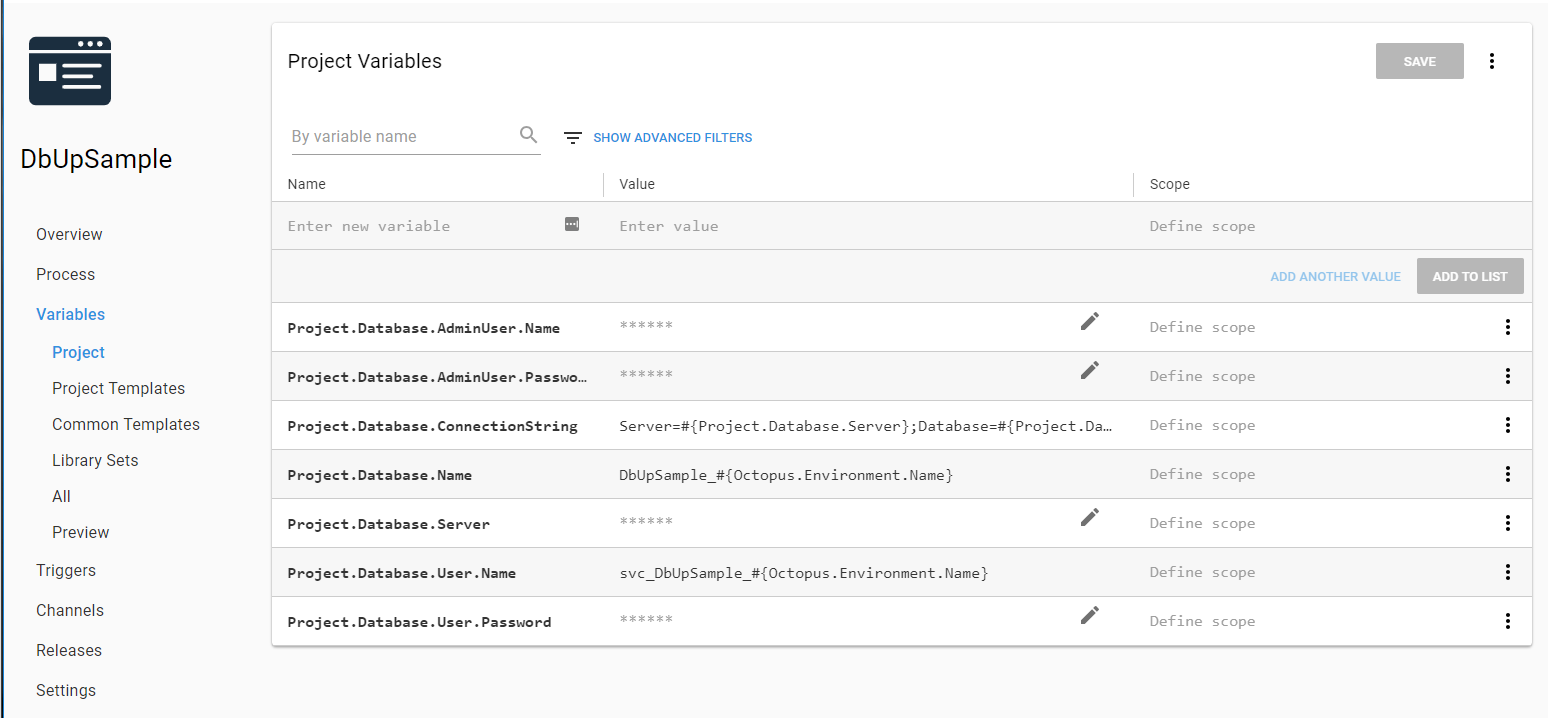
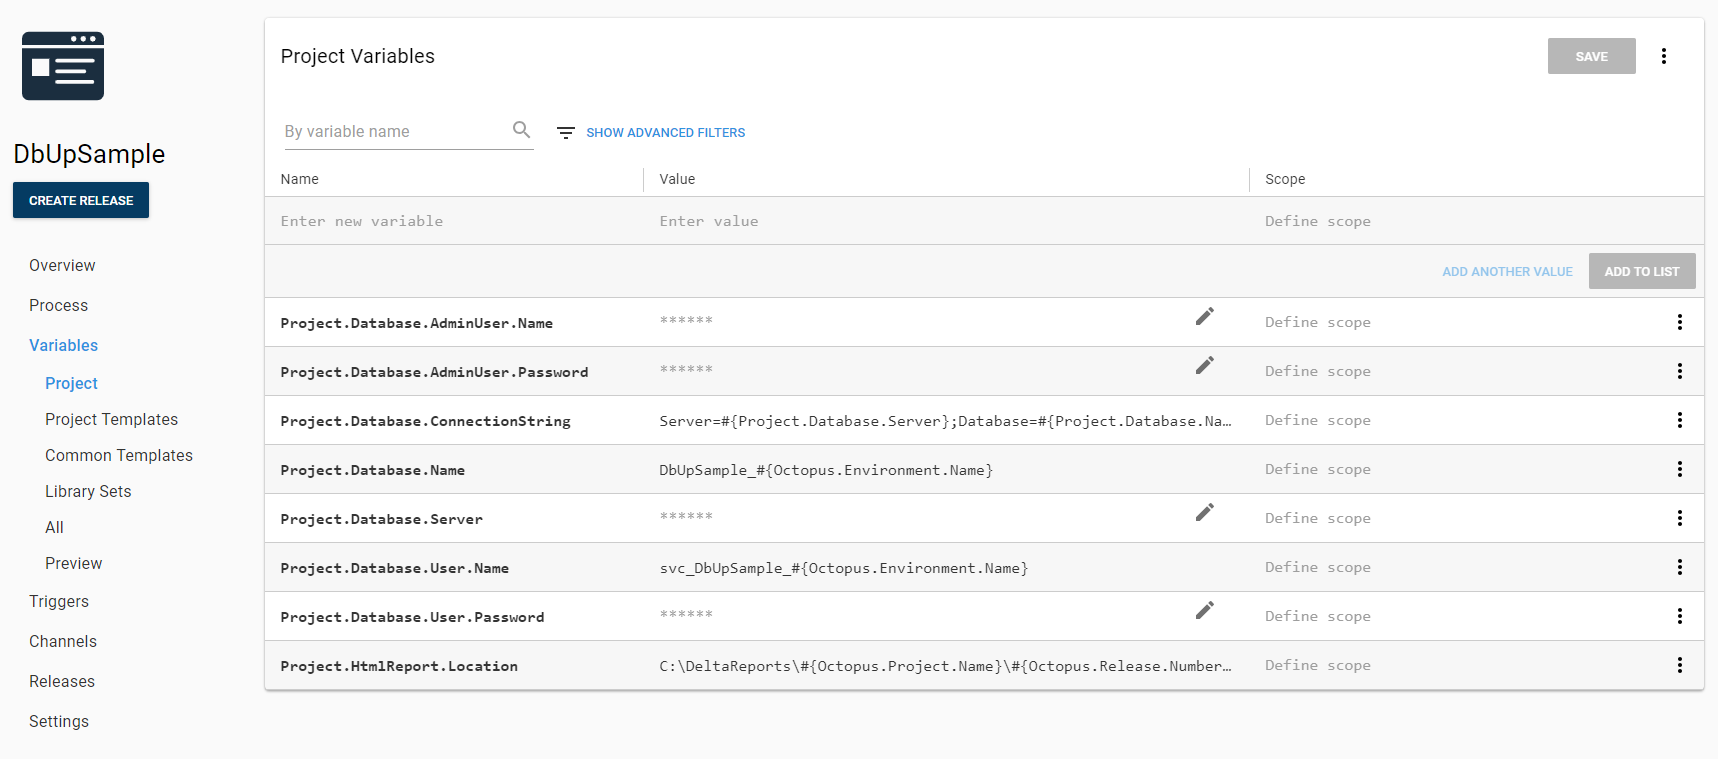
Wrapping up the process, starting on the cloud region

diff --git a/blog/2019-02/dbup-database-deployments/index.md b/blog/2019-02/dbup-database-deployments/index.md
@@ -334,9 +334,9 @@ You could move around the older files into a new folder and add a new command li
 
 I'm going to assume you know how to build a .NET Core application and package it up.  If you do not, here is the quick TL;DR;  
 
-Run the `dotnet publish` command on the project.  Set the output path.
-Run `octo.exe pack` to package up the output path (or use the Octopus Deploy build server plug-in).
-Push the package to Octopus Deploy using `octo.exe push` command (or use the Octopus Deploy build server plug-in).
+- Run the `dotnet publish` command on the project.  Set the output path.
+- Run `octo.exe pack` to package up the output path (or use the Octopus Deploy build server plug-in).
+- Push the package to Octopus Deploy using `octo.exe push` command (or use the Octopus Deploy build server plug-in).
 
 To make your life easier for this demo I have included version 1.0.0.0 of the sample application as a zip file in GitHub repo.  You can find that file in the root directory of the repo.  A quick upload and we now have a package ready to deploy.
 
@@ -348,4 +348,103 @@ Before getting to the process, we need to define some variables.  Because this i
 
 ![](octopusdeploy-demovariables.png)
 
-To create the database and user I am using the community step templates I created for earlier blog posts.  You can download those step templates to your Octopus Deploy instance by going to the [library](https://library.octopus.com) Or, you can go to the step template library on your Octopus Deploy instance on your instance and adding them yourself.
+To create the database and user I am using the community step templates I created for earlier blog posts.  You can download those step templates to your Octopus Deploy instance by going to the [library](https://library.octopus.com) Or, you can go to the step template library on your Octopus Deploy instance and add them.
+
+Adding in the first step presents us with a decision.  Where to run the step.  Should it run on a target or on a worker?  For right now, I am going to run this on a worker in the `Database Worker Pool.` I picked the worker pool because I am using SQL Authentication.  If I was using integrated security with this process there is some additional setup to be done.  I will cover that later in the post.  For now, I want to go through the process.
+
+![](octopusdeploy-createdatabasestep.png)
+
+With this process we first want to put the scaffolding in place to create the database, the user and assign the user database.  
+
+![](octopusdeploy-initialdatabasedeployscaffolding.png)
+
+The next set of steps will deploy the database changes from DbUp.  If you recall [my previous Redgate articles](https://octopus.com/blog/automated-database-deployments-redgate-sql-change-automation-state-based) this was done via four steps.
+
+1) Download Package
+2) Run Redgate Create Database Release
+3) DBA Approve Deployment
+4) Run Redgate Deploy Database Release
+
+I have a couple of problems with that process.  Namely, the download package step is designed to extract the package and leave it on the tentacle.  By default it will leave it there forever.  Unless [retention policies](https://octopus.com/docs/administration/retention-policies) are configured.  My problem with that is after the deployment is complete there is no need to keep that extracted package on the tentacle.  The SQL Scripts have been run.  The scripts are now just taking up space.  In addition, that process has steps 2 and 4 referencing step 1.  It feels like a lot of extra work.
+
+If you are using Octopus Deploy 2018.8 or higher the good news is we can now reference packages from the `Run a Script` step.  The package will be downloaded and extracted.  Once the step is complete it will delete the extracted package.  Aside from cleaning up unneeded content, using package references in the `Run a Script` step lends itself nicely to running this process on workers.  Each step is isolated from one another.  
+
+The first step in the deployment piece of this process will generate the HTML report and upload it as an artifact to Octopus Deploy.  First things first, we need to add a package reference to the step.  First click on the `Add` button.  
+
+![](octopusdeploy-addpackagereference.png)
+
+When the modal window appears choose the package to extract.
+
+![](octopusdeploy-addpackagereferencemodal.png)
+
+Now we can add a script to handle the deployment.  Running .NET Core console apps is a little different than running .NET Framework Console apps.
+
+```PS
+# How you reference the extracted path
+$packagePath = $OctopusParameters["Octopus.Action.Package[DbUpSample].ExtractedPath"]
+$connectionString = $OctopusParameters["Project.Database.ConnectionString"]
+$reportPath = $OctopusParameters["Project.HtmlReport.Location"]
+
+$dllToRun = "$packagePath\DbUpSample.dll"
+$generatedReport = "$reportPath\UpgradeReport.html"
+
+if ((test-path $reportPath) -eq $false){
+	New-Item $reportPath -ItemType "directory"
+}
+
+# How you run this .NET core app
+dotnet $dllToRun --ConnectionString="$connectionString" --PreviewReportPath="$reportPath"
+
+New-OctopusArtifact -Path "$generatedReport" 
+```
+
+The entire step will looks like this when you are done:
+
+![](octopusdeploy-createdeltareport.png)
+
+Nothing super fancy about the manual intervention.  In this example I configured it to run only in Staging and Production and have the DBAs approve this deployment.
+
+![](octopusdeploy-manualintervention.png)
+
+The deployment step is similar to the `Generate Delta Report` step except it will deploy the changes, not worry about generating the report.  The PowerShell for this step is:
+
+```PS
+# How you reference the extracted path
+$packagePath = $OctopusParameters["Octopus.Action.Package[DbUpSample].ExtractedPath"]
+$connectionString = $OctopusParameters["Project.Database.ConnectionString"]
+
+$dllToRun = "$packagePath\DbUpSample.dll"
+
+# How you run this .NET core app
+dotnet $dllToRun --ConnectionString="$connectionString" --GenerateReport="$reportPath"
+```
+
+![](octopusdeploy-deploychanges.png)
+
+The final process is now:
+
+![](octopusdeploy-finaldatabasedeploymentprocess.png)
+
+The variables are there.  The process is set.  Let's deploy some database changes.
+
+![](octopusdeploy-deployrelease.png)
+
+Whoops!  Forgot to install .NET Core on my worker.  One sec.
+
+![](octopusdeploy-missingdotnetcore.png)
+
+A quick jump over to the [Script Console](https://octopus.com/docs/administration/managing-infrastructure/script-console) to run a chocolatey install.
+
+![](octopusdeploy-scriptconsole.png)
+
+That is successful.  Good!
+
+![](octopusdeploy-scriptconsolesuccess.png)
+
+Let's try that release again.  Hindsight being what it is I could've told it to retry the release, but I decided to create a new one.  Why?  Reasons!
+
+![](octopusdeploy-anotherrelease.png)
+
+This one was successful (actually I had a few more failures because I was trying something else).  You can see the artifact created by the process.
+
+![](octopusdeploy-successfulrelease.png)
